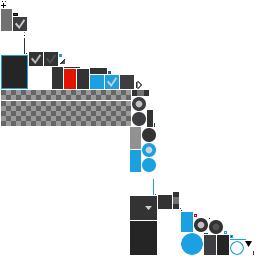
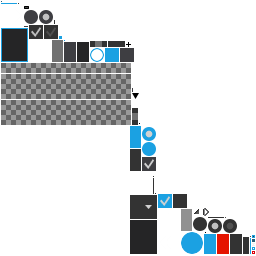
Use better alpha background on color previews

diff --git a/UI/src/com/kotcrab/vis/ui/widget/color/ColorPicker.java b/UI/src/com/kotcrab/vis/ui/widget/color/ColorPicker.java
@@ -87,11 +87,19 @@ public class ColorPicker extends VisWindow implements Disposable {
 	private Image newColor;
 
 	public ColorPicker () {
-		this(null);
+		this("Color Picker");
+	}
+
+	public ColorPicker (String title) {
+		this(title, null);
 	}
 
 	public ColorPicker (ColorPickerListener listener) {
-		super("Color Picker");
+		this("Color Picker", listener);
+	}
+
+	public ColorPicker (String title, ColorPickerListener listener) {
+		super(title);
 		this.listener = listener;
 
 		setModal(true);
@@ -151,7 +159,7 @@ public class ColorPicker extends VisWindow implements Disposable {
 		table.add(currentColor = new AlphaImage(white)).height(25).expandX().fillX();
 		table.row();
 		table.add(new VisLabel("New")).spaceRight(3);
-		table.add(newColor = new AlphaImage(white)).height(25).expandX().fillX();
+		table.add(newColor = new AlphaImage(white, true)).height(25).expandX().fillX();
 
 		currentColor.setColor(color);
 		newColor.setColor(color);
@@ -417,6 +425,7 @@ public class ColorPicker extends VisWindow implements Disposable {
 	/** Sets current selected color in picker.*/
 	public void setColor (Color c) {
 		//this method overrides setColor in Actor, not big deal we definitely don't need it
+		currentColor.setColor(new Color(c));
 		oldColor = new Color(c);
 		color = new Color(c);
 		updateFieldsFromColor();

diff --git a/UI/src/com/kotcrab/vis/ui/widget/color/AlphaImage.java b/UI/src/com/kotcrab/vis/ui/widget/color/AlphaImage.java
@@ -27,15 +27,30 @@ import com.kotcrab.vis.ui.VisUI;
  */
 public class AlphaImage extends Image {
 	private Drawable alphaBar = VisUI.getSkin().getDrawable("alpha-bar-25px");
+	private Drawable alphaBarShifted = VisUI.getSkin().getDrawable("alpha-bar-25px-shifted");
+
+	private Drawable alphaDrawable;
+	private boolean shiftAlpha;
 
 	public AlphaImage (Drawable imageUp) {
 		super(imageUp);
+		setAlphaDrawable();
+	}
+
+	public AlphaImage (Drawable imageUp, boolean shiftAlpha) {
+		super(imageUp);
+		this.shiftAlpha = shiftAlpha;
+		setAlphaDrawable();
+	}
+
+	private void setAlphaDrawable () {
+		alphaDrawable = shiftAlpha ? alphaBarShifted : alphaBar;
 	}
 
 	@Override
 	public void draw (Batch batch, float parentAlpha) {
 		batch.setColor(1, 1, 1, parentAlpha);
-		alphaBar.draw(batch, getX() + getImageX(), getY() + getImageY(), getImageWidth() * getScaleX(), getImageHeight() * getScaleY());
+		alphaDrawable.draw(batch, getX() + getImageX(), getY() + getImageY(), getImageWidth() * getScaleX(), getImageHeight() * getScaleY());
 		super.draw(batch, parentAlpha);
 	}
 }
